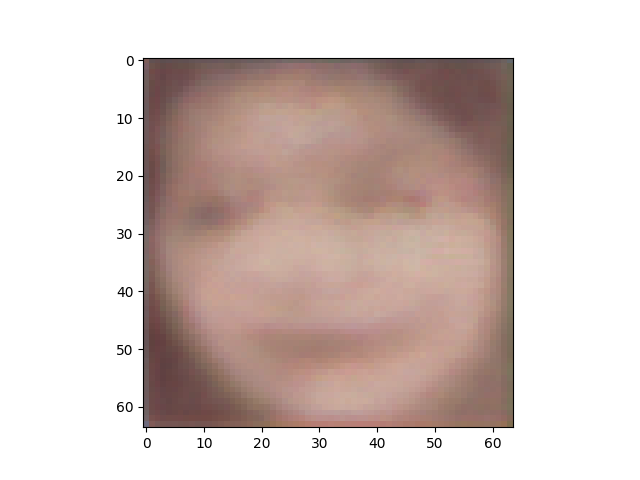
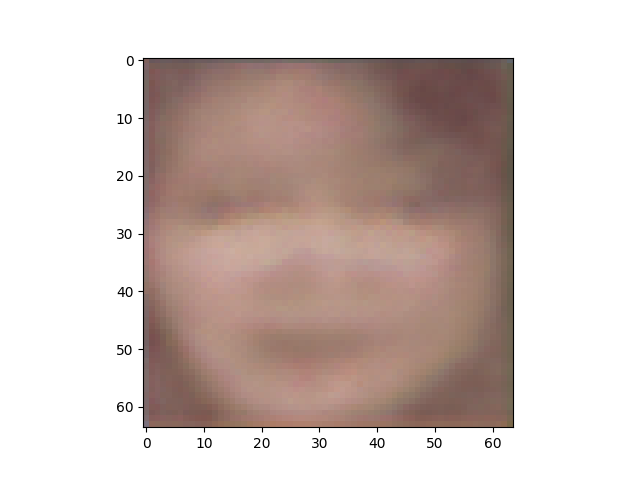
Fixed bugs and added params for training

diff --git a/models/gan.py b/models/gan.py
@@ -8,42 +8,43 @@ from tensorflow.keras import layers
 from tensorflow.keras import losses
 
 
-def product(*args):
+def _product(*args):
     prod = 1
     for arg in args:
         prod *= arg
     return prod
 
 
-def get_discriminator_targets(targets):
+def _get_discriminator_targets(targets):
     targets = tf.random.uniform(targets.shape, minval=0.7) * targets
     negative_labels = tf.random.uniform(targets.shape, maxval=0.3)
-    return tf.cat([targets, negative_labels])
+    return tf.concat([targets, negative_labels], 0)
 
 
 class Generator(layers.Layer):
 
-    def __init__(self, output_shape, conv_params=None):
+    def __init__(self, output_dim, depth, conv_params=None):
+        super().__init__()
         if not conv_params:
             raise ValueError("Did not add any input conv_params")
-        self.latent_dim = (output_shape[0]//len(conv_params),
-                           output_shape[1]//len(conv_params),
-                           output_shape[2])
         self.batch_norms = [layers.BatchNormalization(momentum=0.9)
-                            for _ in range(len(conv_args))]
+                            for _ in range(len(conv_params))]
         self.upsampling_layers = [layers.UpSampling2D()
                                   for _ in range(len(conv_params)-1)]
-        self.conv_layers = [layers.Conv2DTranspose(*conv_arg, **conv_kwarg)
+        self.conv_layers = [layers.Conv2DTranspose(*conv_args, **conv_kwargs)
                             for conv_args, conv_kwargs in conv_params[:-1]]
-        self.sample = layers.Dense(product(*self.latent_dim))
+        self.latent_dim = (output_dim[0]//2**len(self.upsampling_layers),
+                           output_dim[1]//2**len(self.upsampling_layers),
+                           output_dim[2])
+        self.sample = layers.Dense(_product(*self.latent_dim))
         self.reshape_layer = layers.Reshape(self.latent_dim)
         self.output_layer = layers.Conv2DTranspose(*conv_params[-1][0],
                                                    **conv_params[-1][1])
-
     def call(self, inputs):
         # Get input data from the dataset
         data, _ = inputs
         samples = activations.relu(self.batch_norms[0](self.sample(data)))
+        samples = self.reshape_layer(samples)
         for upsample, conv, norm in zip(self.upsampling_layers,
                                         self.conv_layers, self.batch_norms[1:]):
             samples = upsample(samples)
@@ -54,27 +55,29 @@ class Generator(layers.Layer):
 class Discriminator(layers.Layer):
 
     def __init__(self, conv_params=None, dense_params=None):
+        super().__init__()
         if not (conv_params and dense_params):
             raise ValueError("Did not add any parameters for either conv_params or dense_params")
         dropout_amt = len(conv_params)+len(dense_params)-1
         self.dropout_layers = [layers.Dropout(0.5)
                                for _ in range(dropout_amt)]
-        self.conv_layers = [layers.Conv2D(*conv_arg, **conv_kwarg)
+        self.conv_layers = [layers.Conv2D(*conv_args, **conv_kwargs)
                             for conv_args, conv_kwargs in conv_params]
         self.dense_layers = [layers.Dense(*dense_args, **dense_kwargs)
                              for dense_args, dense_kwargs in dense_params[:-1]]
         self.output_layer = layers.Dense(*dense_params[-1][0],
                                          **dense_params[-1][1])
         self.leaky_relu = layers.LeakyReLU()
-
+        self.flatten = layers.Flatten()
 
     def call(self, inputs):
-        data, target = inputs
+        data, _ = inputs
         conv_dropouts = self.dropout_layers[:len(self.conv_layers)]
         dense_dropouts = self.dropout_layers[len(self.conv_layers):]
         for conv, dropout in zip(self.conv_layers, self.dropout_layers):
-            data = self.leaky_relu(self.conv(data))
+            data = self.leaky_relu(conv(data))
             data = dropout(data)
+        data = self.flatten(data)
         for dense, dropout in zip(self.dense_layers, dense_dropouts):
             data = self.leaky_relu(dense(data))
             data = dropout(data)
@@ -83,55 +86,59 @@ class Discriminator(layers.Layer):
 
 class GAN(keras.Model):
 
-    def __init__(self, latent_shape, output_shape, discriminator_params, generator_params):
-        self.latent_shape = latent_shape
-        self.output_shape = output_shape
+    def __init__(self, latent_len, output_dim, discriminator_params, generator_params):
+        super().__init__()
+        self.latent_len = latent_len
+        self.output_dim = output_dim
         self.discriminator = Discriminator(*discriminator_params[0],
                                            **discriminator_params[1])
-        self.generator = Generator(*generator_params[0], **generator_params[1])
-        self.bce = losses.BinaryCrossEntropy()
+        self.generator = Generator(output_dim, *generator_params[0],
+                                   **generator_params[1])
+        self.bce = losses.BinaryCrossentropy()
+        self.disc_loss_tracker = metrics.Mean(name="disc_loss")
+        self.gen_loss_tracker = metrics.Mean(name="gen_loss")
 
 
     def call(self, inputs):
         return self.generator(inputs)
 
-
     def train_discriminator(self, inputs):
-        src, targets = inputs
-        predictions = self.discriminator(src)
-        return losses.bce(predictions, targets)
-
-
+        _, targets = inputs
+        predictions = self.discriminator(inputs)
+        return self.bce(predictions, targets)
 
     def train_generator(self, inputs):
-        src, targets = inputs
-        predictions = self.discriminator(self(src))
-        return losses.bce(predictions, targets)
-
+        _, targets = inputs
+        predictions = self.discriminator((self(inputs), targets))
+        return self.bce(predictions, targets)
 
     def train_step(self, inputs):
-        src, targets = inputs
-        sampled_vector = tf.random.normal((src.shape[0], *self.latent_shape))
-        fake_images = self(sampled_vector)
-        src = tf.concat([src, fake_images], 0)
-        targets = get_discriminator_targets(targets)
+        src, targets = inputs, tf.ones(inputs.shape[0])
+        sampled_vector = tf.random.normal((src.shape[0], self.latent_len))
+        fake_images = self((sampled_vector, None))
+        training_imgs = tf.concat([src, fake_images], 0)
+        targets = _get_discriminator_targets(targets)
         self.generator.trainable = False
         self.discriminator.trainable = True
         with tf.GradientTape() as disc_tape:
-            disc_loss = self.train_discriminator((src, targets))
+            disc_loss = self.train_discriminator((training_imgs, targets))
         disc_gradients = disc_tape.gradient(disc_loss, self.trainable_weights)
         self.optimizer.apply_gradients(zip(disc_gradients, self.trainable_weights))
         self.disc_loss_tracker.update_state(disc_loss)
         self.discriminator.trainable = False
         self.generator.trainable = True
-        sampled_vectors = tf.random.normal((src.shape[0], *self.latent_shape))
+        sampled_vectors = tf.random.normal((src.shape[0], self.latent_len))
         gen_targets = tf.ones(sampled_vector.shape)
         with tf.GradientTape() as gen_tape:
             gen_loss = self.train_generator((sampled_vectors, gen_targets))
         gen_gradients = gen_tape.gradient(gen_loss, self.trainable_weights)
-        self.optimizer.apply_gradient(zip(gen_gradients, self.trainable_weights))
+        self.optimizer.apply_gradients(zip(gen_gradients, self.trainable_weights))
         self.gen_loss_tracker.update_state(gen_loss)
         return {
-            "disc_loss": self.disc_loss_tracker.results(),
-            "gen_loss": self.gen_loss_tracker.results()
+            "disc_loss": self.disc_loss_tracker.result(),
+            "gen_loss": self.gen_loss_tracker.result()
         }
+
+    @property
+    def metrics(self):
+        return [self.disc_loss_tracker, self.gen_loss_tracker]

diff --git a/main.py b/main.py
@@ -14,6 +14,7 @@ from tensorflow.data import Dataset
 from tensorflow.keras.optimizers import RMSprop
 from tensorflow.keras.preprocessing.image import ImageDataGenerator
 from models.vae import VAE
+from models.gan import GAN
 
 dataset_size = 600
 
@@ -24,6 +25,42 @@ vae_kwargs = {
     "latent_dim": 128,
     "regularization_weight": 1
 }
+
+gan_params = [
+    300, # latent_len
+    (64, 64, 3), # Output Shape
+    # Discriminator Args
+    [
+        [],
+        {
+            "conv_params":[
+                ([16, 3], {"padding": "same"}),
+                ([8, 3], {"padding": "same"}),
+                ([4, 3], {"padding": "same"}),
+                ([3, 3], {"padding": "same"}),
+            ],
+            "dense_params":
+            [
+                ([1000], {}),
+                ([500], {}),
+                ([100], {}),
+                ([1], {})
+            ]
+        }
+    ],
+    # Generator Params
+    [
+        [32],
+        {
+            "conv_params": [
+                ([16, 3], {"padding": "same"}),
+                ([8, 3], {"padding": "same"}),
+                ([4, 3], {"padding": "same"}),
+                ([3, 3], {"padding": "same"}),
+            ]
+        }
+    ],
+]
 
 def parse_args():
     parser = argparse.ArgumentParser(description="File for running VAE")
@@ -49,6 +86,7 @@ def parse_args():
     )
     return parser.parse_args()
 
+
 def get_iter(generator, kwargs):
     def f():
         return generator.flow_from_directory(**kwargs)
@@ -65,7 +103,7 @@ def load_data(directory, target_shape=(64, 64, 3), save_image=False, batch_size=
     iter_kwargs = {
         "directory": directory,
         "target_size": target_shape[:2],
-        "class_mode": None,
+        "class_mode": class_mode,
         "seed": 218,
         "save_to_dir": save_dir,
         "save_prefix": "test",
@@ -74,39 +112,15 @@ def load_data(directory, target_shape=(64, 64, 3), save_image=False, batch_size=
         "batch_size": batch_size
     }
     img_iter_gen = get_iter(image_gen, iter_kwargs)
-    output_signature = (tf.TensorSpec(shape=(None, *target_shape), dtype=tf.float64))
+    output_signature = (tf.TensorSpec(shape=(None, *target_shape), dtype=tf.float32))
     img_dataset = Dataset.from_generator(
         img_iter_gen,
         output_signature=output_signature
     )
+    return img_dataset
 
-def train_gan(directory, target_shape=(64, 64, 3) save_image=False, batch_size=10):
-    img_dataset = load_data(
-        directory,
-        target_shape=target_shape,
-        save_image=save_image
-        batch_size=batch_size
-        class_mode="binary"
-    )
-    gan = GAN(*gan_params)
-    optimizer = RMSprop(learning_rate=1e-3)
-    early_stop = EarlyStopping(
-        monitor='gen_loss',
-        min_delta=0.001,
-        patience=10,
-        restore_best_weights=True
-    )
-    gan.compile(optimizer=optimiezr, run_eagerly=True)
-    history = gan.fit(
-        x=img_dataset,
-        steps_per_epoch=math.ceil(dataset_size/batch_size)
-        epochs=100,
-        callbacks=[early_stop]
-    )
-    gan.save_weights("models/gan_model.h5")
-    return gan, history
 
-def train_autoencoder(directory, target_shape=(64, 64, 3), save_image=False, batch_size=10):
+def train_vae(directory, target_shape=(64, 64, 3), save_image=False, batch_size=10):
     img_dataset = load_data(
         directory,
         target_shape=target_shape,
@@ -124,13 +138,40 @@ def train_autoencoder(directory, target_shape=(64, 64, 3), save_image=False, bat
     autoencoder.compile(optimizer=optimizer, run_eagerly=True)
     history = autoencoder.fit(
         x=img_dataset,
-        steps_per_epoch=math.ceil(dataset_size/iter_kwargs["batch_size"]),
+        steps_per_epoch=math.ceil(dataset_size/batch_size),
         epochs=100,
         callbacks=[early_stop]
     )
     autoencoder.compile(optimizer=optimizer)
     autoencoder.save_weights("models/vae_model.h5")
     return autoencoder, history
+
+
+def train_gan(directory, target_shape=(64, 64, 3), save_image=False, batch_size=10):
+    img_dataset = load_data(
+        directory,
+        target_shape=target_shape,
+        save_image=save_image,
+        batch_size=batch_size,
+    )
+    gan = GAN(*gan_params)
+    optimizer = RMSprop(learning_rate=1e-3)
+    early_stop = EarlyStopping(
+        monitor='gen_loss',
+        min_delta=0.001,
+        patience=10,
+        restore_best_weights=True
+    )
+    gan.compile(optimizer=optimizer, run_eagerly=True)
+    history = gan.fit(
+        x=img_dataset,
+        steps_per_epoch=math.ceil(dataset_size/batch_size),
+        epochs=100,
+        callbacks=[early_stop]
+    )
+    gan.save_weights("models/gan_model.h5")
+    return gan, history
+
 
 def generate_image(target_shape=(64, 64, 3), save_image=False):
     autoencoder = VAE(target_shape, **vae_kwargs)
@@ -139,12 +180,14 @@ def generate_image(target_shape=(64, 64, 3), save_image=False):
     autoencoder.load_weights("models/vae_model.h5")
     return autoencoder.generate_image()
 
+
 def reconstruct_image(img, target_shape=(64, 64, 3)):
     autoencoder = VAE(target_shape, **vae_kwargs)
     autoencoder(tf.random.uniform([1, *target_shape]))
     autoencoder.compile(run_eagerly=True)
     autoencoder.load_weights("models/vae_model.h5")
     return autoencoder(tf.reshape(img, [1, *img.shape]))
+
 
 def get_largest_filenumber(files):
     largest_num = 1
@@ -166,7 +209,7 @@ def plot_losses(*args, file_dir="/gan-losses"):
 if __name__ == "__main__":
     args = parse_args()
     if args.train:
-        autoencoder, history = train(args.train, save_image=args.save_image)
+        autoencoder, history = train_gan(args.train, save_image=args.save_image)
         plot_losses(history["gen_loss"], history["disc_loss"])
     elif args.test:
         image = np.asarray(Image.open(args.test)).astype(np.float32)
